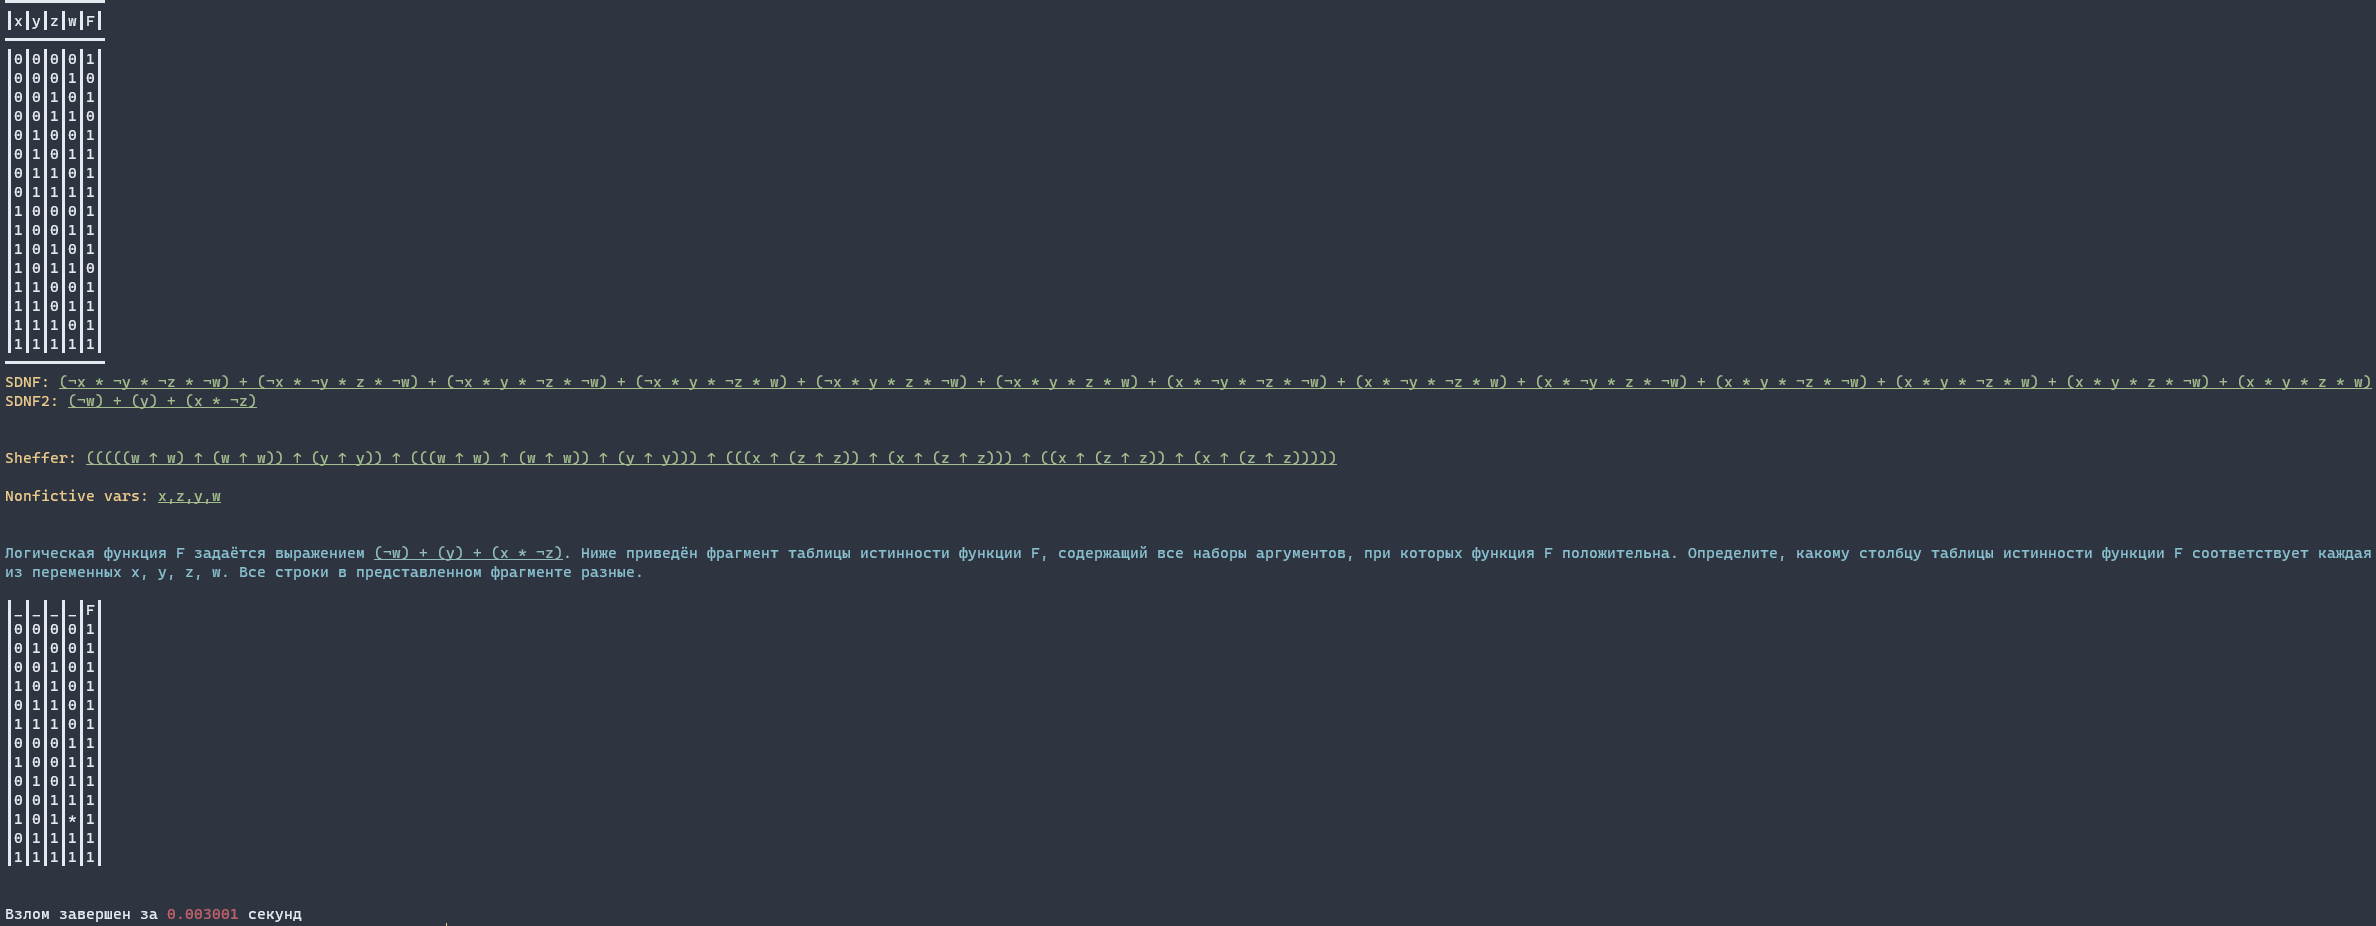
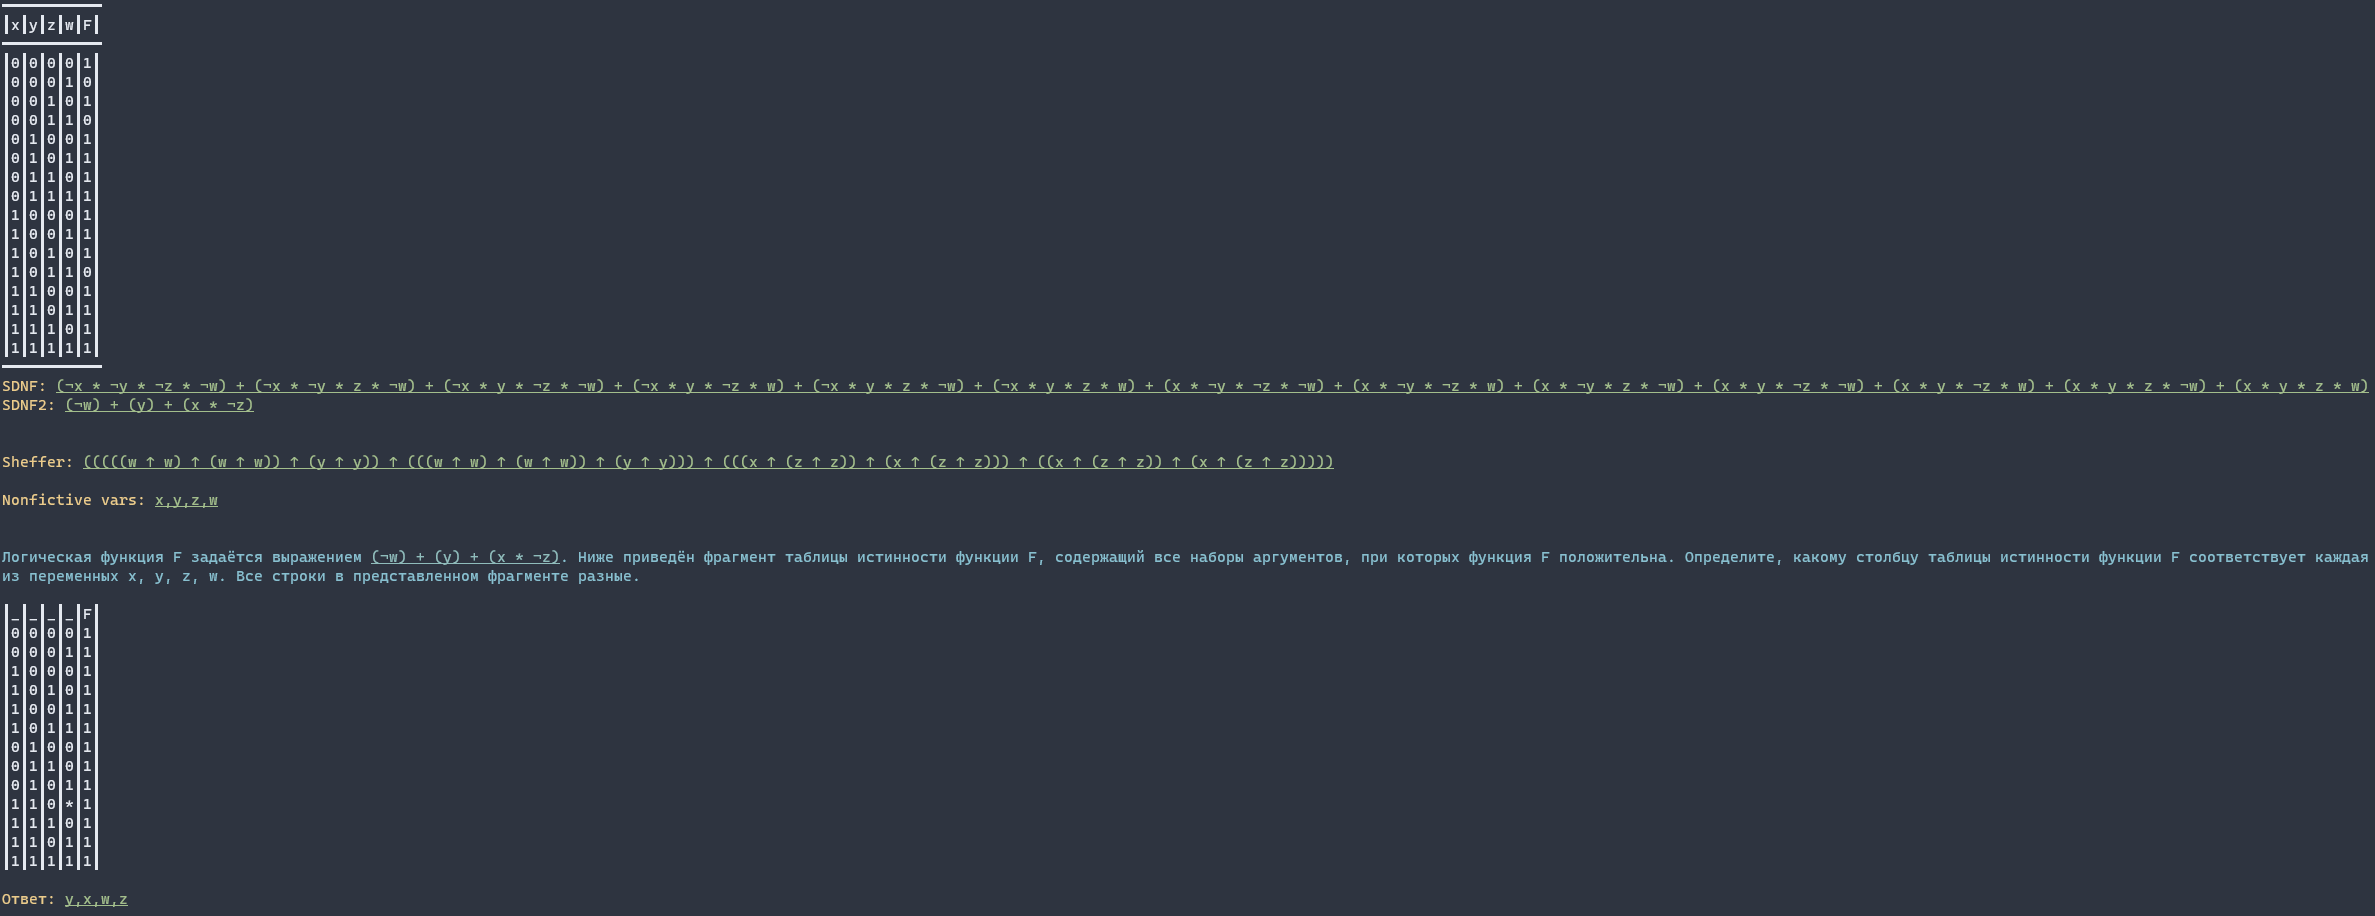
Add EGE answer

diff --git a/bool_hacker_main.py b/bool_hacker_main.py
@@ -247,6 +247,14 @@ def ege(logic: Callable, sdnf: str, args: Tuple[str], table: List[List[bool]]):
                     print("", selected[col][idx], sep=TABLE_COLUMN_SEPARATOR, end="")
             idx += 1
             print("", int(not is_neg), "", sep=TABLE_COLUMN_SEPARATOR)
+
+        print()
+        print(STEP_DEC, end='')
+        print("Ответ: ", end='')
+        print(RESULT_DEC, end='')
+        print(','.join(args_shuffled), end='')
+        print(STEP_DEC)
+        print(RESET)
         return None
 
     print(LIGHT_RED, end="")

diff --git a/main.py b/main.py
@@ -3,4 +3,4 @@
 from bool_hacker_main import hack
 from tests import *
 
-hack(wiki3)
+hack(dummy3)
